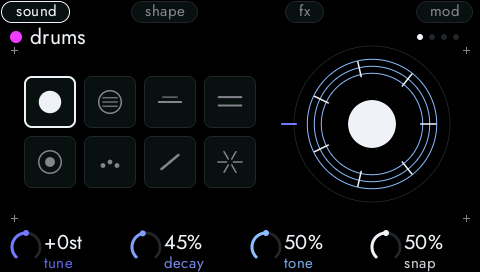
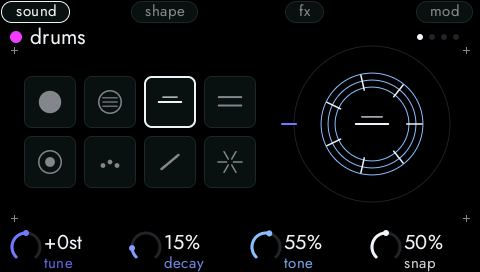
The unit starts empty (the eight instruments, nothing in the steps) and a piece is loaded from FILE; manual recipe 1 and the twin follow

diff --git a/guide/manual.tpl.html b/guide/manual.tpl.html
@@ -131,7 +131,7 @@ h2.ref small{font-size:14px;color:var(--dim)}
 
 <h4>Starting it</h4>
 <p>On a Mac, plug the MK3 in <i>directly</i> (a hub can starve its screens of power), close Native Instruments' own software, and run <code>scripts/run.sh</code> (or just <code>op8</code>, if you set that alias up). On the Raspberry Pi 5 it starts by itself when the unit is powered. The sound comes out of the MK3's own audio outputs.</p>
-<p>OP-8 starts with a small demo already in it: a drum beat, a kick, a bass, a plucked line, a MIDI arpeggio and a synth line. It is there so there is always something to listen to and take apart.</p>
+<p>OP-8 starts <b>empty</b>: the eight instruments are on their tracks (drums, kick, bass, strings and bells, sampler, granular, synth and the MIDI out) and there is nothing in the steps. To hear something, load one of the eight pieces that come with it (next section); to make something, start with recipe 2.</p>
 
 <h2 id="pieces">Eight pieces to listen to</h2>
 <p class="sub">Before you build anything, hear what it can do. Press <kbd>FILE</kbd>, tap one of the top two rows of pads, and press <kbd>PLAY</kbd>. Each is short and in a different style; turn knobs, mute tracks and take it apart.</p>
@@ -144,12 +144,12 @@ __PIECE_ROWS__
 <h2 id="first">Your first ten minutes</h2>
 <p class="sub">No rules, only things to press.</p>
 <ol class="steps">
-  <li><div>Press <kbd>PLAY</kbd>. The demo plays, and the pad lights run along the steps. Press <kbd>PLAY</kbd> again to pause, and <kbd>STOP</kbd> to stop. <kbd>RESTART</kbd> goes back to step 1 and keeps playing.</div></li>
+  <li><div>Press <kbd>FILE</kbd>, tap a pad of the top row (for example <b>house</b>, the first) and press <kbd>PLAY</kbd>. The piece plays, and the pad lights run along the steps. Press <kbd>PLAY</kbd> again to pause, and <kbd>STOP</kbd> to stop. <kbd>RESTART</kbd> goes back to step 1 and keeps playing.</div></li>
   <li><div>Press the group buttons <kbd>A</kbd> to <kbd>H</kbd> one after another. Each track has its own colour and its own instrument, in the order of <kbd>PLUG-IN</kbd>: drums, kick, bass, strings and bells, sampler, granular (recipe 20), synth, and last the MIDI out. The right screen changes with it.</div></li>
   <li><div>Hold <kbd>MUTE</kbd> and press a group button: that track goes quiet. Do it again to bring it back. Mute everything except the bass and the kick and you have the skeleton of the piece.</div></li>
-  <li><div>Turn knobs 5–8 while the demo plays. The right screen names what each one does, and the picture changes with the sound. This is the main way to shape a sound.</div></li>
+  <li><div>Turn knobs 5–8 while the piece plays. The right screen names what each one does, and the picture changes with the sound. This is the main way to shape a sound.</div></li>
   <li><div>Hold <kbd>TEMPO</kbd> and turn the 4D encoder (the big knob in the corner): the tempo changes, and the left screen shows it in large numbers while you hold the button.</div></li>
-  <li><div>Press <kbd>FILE</kbd>. The sixteen pads are sixteen places for projects: the top two rows are eight that come with OP-8, the bottom two rows are yours. Tap one of the top row to load it. Press <kbd>FILE</kbd> again to leave. Whatever you do, you can always come back to the demo this way.</div></li>
+  <li><div>Press <kbd>FILE</kbd>. The sixteen pads are sixteen places for projects: the top two rows are eight that come with OP-8, the bottom two rows are yours. Tap one of the top row to load it. Press <kbd>FILE</kbd> again to leave. Whatever you do, you can always come back to a piece this way, and an empty place of yours opens a new empty project.</div></li>
 </ol>
 <div class="callout warn"><p><b>There is no undo yet.</b> If you are about to try something bold, save first: <kbd>FILE</kbd>, then <kbd>SHIFT</kbd> and a pad of the bottom two rows (recipe 12).</p></div>
 
@@ -161,9 +161,9 @@ __PIECE_ROWS__
   <h3>1 <span>LISTEN AND TAKE IT APART</span></h3>
   <p class="goal">Hear what the machine does and learn to mute and choose tracks.</p>
   <ol class="steps">
-    <li><div>Press <kbd>PLAY</kbd>.</div></li>
+    <li><div>Press <kbd>FILE</kbd>, tap <b>pad 1</b> of the top row (<b>house</b>): it loads and takes you back to composing. Press <kbd>PLAY</kbd>.</div></li>
     <li><div>Hold <kbd>MUTE</kbd> and press group <kbd>B</kbd>. The kick drops out (its group light goes dark).</div></li>
-    <li><div>Press group <kbd>D</kbd> (no <kbd>MUTE</kbd>). The right screen now shows the <b>resonator</b>, the instrument that plays the plucked line. Turn knob 7 and listen.</div></li>
+    <li><div>Press group <kbd>D</kbd> (no <kbd>MUTE</kbd>). The right screen now shows the <b>resonator</b>, the instrument that plays the chord stabs. Turn knob 7 and listen.</div></li>
     <li><div>Press <kbd>STOP</kbd>.</div></li>
   </ol>
   <figure><div class="pair"><img src="img/r01-playing-left.png" alt="The left screen while playing."><img src="img/r01-playing-right.png" alt="The right screen while playing."></div><figcaption>While it plays, the white pad is the playhead and the rings on the left show where each track is in its own loop.</figcaption></figure>
@@ -492,7 +492,7 @@ __PIECE_ROWS__
   <h3>21 <span>SLICES: A KIT MADE OF A SOUND</span></h3>
   <p class="goal">Cut a sound into equal parts and play each one from a pad or a step.</p>
   <ol class="steps">
-    <li><div>Press group <kbd>E</kbd> (the sampler) and choose a sound with a beat in it: record a bar of the demo with <kbd>SAMPLING</kbd> (recipe 16) and save it, or use the <b>glitch</b>, which has four hits.</div></li>
+    <li><div>Press group <kbd>E</kbd> (the sampler) and choose a sound with a beat in it: record a bar of one of the pieces with <kbd>SAMPLING</kbd> (recipe 16) and save it, or use the <b>glitch</b>, which has four hits.</div></li>
     <li><div>Press <kbd>6</kbd> (<kbd>shape</kbd>) and turn <b>knob 7, loop</b>, to <b>slices 8</b> (the third of the five names of the knob: <b>one shot</b>, <b>loop</b>, <b>slices 8</b>, <b>slices 16</b>, <b>hits</b>). The wave now has seven ticks across it: the part between <b>start</b> and <b>length</b>, cut into eight equal parts.</div></li>
     <li><div>Press <kbd>KEYBOARD</kbd> and tap the pads. The bottom-left pad (C3) is the first slice, the next pad the second, and so on; with eight slices the pads above the eighth go round to the first again. With <b>slices 16</b> every pad is its own slice.</div></li>
     <li><div>A slice always plays at its own pitch, whatever the pad (<b>tune</b> moves them all together), and it plays through and fades over <b>release</b>.</div></li>
@@ -503,7 +503,7 @@ __PIECE_ROWS__
     <li><div><b>Cut where the sound hits.</b> Turn <b>knob 7, loop</b>, on to <b>hits</b>. Instead of equal parts, OP-8 looks for the places where the sound <i>hits</i> (a drum, a note that starts) and cuts there: a tick appears at each hit and a slice runs from one hit to the next. The first pad (C3) is the first hit, the next pad the next one, and the pads go round after the last. It finds up to sixteen, at least 60 ms apart, and what comes before the first hit is not a slice. A sound with no hits (a held tone, a pad) is one slice. <b>Start</b> and <b>length</b> still choose the part that is cut.</div></li>
   </ol>
   <figure><div class="pair one"><img src="img/r21-hits-right.png" alt="The sampler on hits: ticks where the sound hits."></div><figcaption>A phrase of four drum hits on <b>hits</b>: a tick at each one.</figcaption></figure>
-  <p class="next"><b>Try next:</b> record a drum loop from the demo, slice it in 16, and play the slices from the steps of another track in a new order.</p>
+  <p class="next"><b>Try next:</b> record a drum loop from one of the pieces, slice it in 16, and play the slices from the steps of another track in a new order.</p>
 </div>
 
 <div class="recipe" id="r22">
@@ -543,7 +543,7 @@ __PIECE_ROWS__
   <figure><div class="pair"><img src="img/r23-send-left.png" alt="The mixer with the delay send lit."><img src="img/r23-send-right.png" alt="The page of the sends: the delay and the reverb."></div><figcaption>Left: the faders show what each channel sends to the delay. Right: the delay and the reverb.</figcaption></figure>
   <figure><div class="pair"><img src="img/r23-side-chain-right.png" alt="The output page with the side-chain on a track."><img src="img/r23-taps-right.png" alt="The taps page: the delay taken before the fader."></div><figcaption>Left: <b>output</b>, with the compressor listening to track A. Right: <b>taps</b>, with the delay taken before the fader and the reverb after it.</figcaption></figure>
   <figure><div class="pair one"><img src="img/r23-eq-right.png" alt="The EQ page of the mixer."></div><figcaption>The EQ: a little bass lifted, a dip in the middle and the treble lifted; the dots are where the bands are set.</figcaption></figure>
-  <p class="next"><b>Try next:</b> play the demo, put the threshold at about −20 dB with a ratio of 4:1 and a slow attack, add a little make-up, and press <kbd>MIXER</kbd> to compare; then put the mix at half.</p>
+  <p class="next"><b>Try next:</b> play one of the pieces, put the threshold at about −20 dB with a ratio of 4:1 and a slow attack, add a little make-up, and press <kbd>MIXER</kbd> to compare; then put the mix at half.</p>
 </div>
 
 

diff --git a/twin/op8-twin.html b/twin/op8-twin.html
@@ -2904,6 +2904,8 @@ function frame() {
   drawLeft(lcdL); drawRight(lcdR); if (UI.main === "instrument") { navRing(lcdL, 0); navRing(lcdR, 1); } updateLeds();
   requestAnimationFrame(frame);
 }
+// the unit starts empty (demo::start_rig): the eight instruments as they come and nothing in the steps; a piece is loaded from FILE
+loadProject(blankProject()); applyPiece(0); PARAMS.forEach((q, t) => { if (q && SLOTS[t] !== "drums") { const d = CARTS[SLOTS[t]].params.map(z => z[1]); q.splice(0, q.length, ...d); } });
 requestAnimationFrame(frame);
 document.querySelectorAll("[data-look]").forEach(b => b.addEventListener("click", () => { LOOK[b.dataset.look] = b.dataset.v; applyLook(); }));
 applyLook();

diff --git a/crates/op8/tests/manual.rs b/crates/op8/tests/manual.rs
@@ -31,14 +31,18 @@ fn with_shift(b: &mut Bench, button: Button) {
 
 // F-G04
 #[test]
-fn recipe_01_hear_the_demo() {
+fn recipe_01_hear_a_piece() {
     let _one_at_a_time = serial();
-    let mut b = Bench::demo();
+    let mut b = Bench::empty();
     b.run_ms(100);
     b.capture("r01-start");
+    b.press(Button::File);
+    b.tap(pad(1)); // house
+    b.run_ms(100);
+    assert_eq!(b.ui().main, op8_ui::Main::Instrument, "loading goes back to composing");
     b.press(Button::Play);
     b.run_ms(2500);
-    assert!(b.rms_db(1500, 2500) > -40.0, "the demo sounds");
+    assert!(b.rms_db(1500, 2500) > -40.0, "the piece sounds");
     b.capture("r01-playing");
     // hold MUTE and tap group B: the kick goes quiet
     b.button_down(Button::Mute);

diff --git a/crates/op8/tests/plugin.rs b/crates/op8/tests/plugin.rs
@@ -137,8 +137,11 @@ fn f_i07_the_standard_tracks_hold_the_eight_instruments_in_order() {
             assert_eq!(b.instrument(t).as_deref(), Some(*name), "{what}: track {t}");
         }
     };
-    check(&Bench::demo(), "the unit as it starts");
+    check(&Bench::demo(), "the demo rig");
     check(&Bench::empty(), "the empty rig");
+    let start = Bench::new(op8::demo::start_rig());
+    check(&start, "the unit as it starts");
+    assert!(start.project().tracks.iter().all(|t| t.is_empty()), "and it starts with nothing in the steps");
     let mut b = Bench::demo();
     for slot in 0..8 {
         b.press(Button::File);

diff --git a/crates/op8/src/main.rs b/crates/op8/src/main.rs
@@ -125,7 +125,7 @@ fn audio_prefs(s: &op8::settings::Settings) -> op8::audio::Prefs {
 #[cfg(feature = "mk3")]
 fn run(mut script: Option<Script>, theme_given: bool) -> Result<()> {
     use std::sync::{atomic::AtomicBool, Arc};
-    let (engine, mut handle, midi_rx) = demo::rig();
+    let (engine, mut handle, midi_rx) = demo::start_rig();
     let midi_sync = handle.take_midi_sync();
     let stop = Arc::new(AtomicBool::new(false));
     // What the player chose in SETTINGS (the devices, the block, the light): read before anything is opened.

diff --git a/crates/op8/src/demo.rs b/crates/op8/src/demo.rs
@@ -104,6 +104,11 @@ pub fn rig() -> (Engine, EngineHandle, rtrb::Consumer<MidiMessage>) {
     (e, h, midi)
 }
 
+/// What the unit starts with (`op8 run`): the eight standard instruments and nothing in the steps. A piece is loaded from FILE.
+pub fn start_rig() -> (Engine, EngineHandle, rtrb::Consumer<MidiMessage>) {
+    empty_rig()
+}
+
 /// Same slots, empty pattern.
 pub fn empty_rig() -> (Engine, EngineHandle, rtrb::Consumer<MidiMessage>) {
     let (slots, midi) = slots();

diff --git a/docs/features.md b/docs/features.md
@@ -213,7 +213,7 @@ The buttons and their implementation status are in [buttons.md](buttons.md). Thi
 | F-K27 | ARRANGER opens both screens and is lit (again goes back); the sixteen pads are the sixteen steps of the song (the one that plays the brightest, one that exists lit more than a free one); a tap chooses a step, knob 5 puts a scene in a free step and then turns it, knob 6 sets its bars, knob 7 follows the song or not, ERASE + a tap takes a step out; the 4D reaches the sixteen cells; a tap in a view other than composing does not open the step inspector; a song that is followed plays the scenes from `PLAY`; saved with the project (format version 10) | `ui().main`, `ui().arr`, the project's `song`, `status().song_step`, `status().pattern`, the pad LEDs, the screens | ✓ |
 | F-A21 | The granular makes a cloud only while a note is held and fades after: nothing without a note; `position` chooses where in the sound the grains are cut; `density` is regular on one side of the middle, random on the other and only the note's own grain in the middle, with more grains the further from the middle; `size` is how long that grain lasts; held notes and `tune` set the pitch (an octave is twice the crossings); `spread` scatters between the speakers (none: both the same); the same notes make the same cloud, and six notes at the busiest stay finite and bounded; a sound put in a place while it plays is the one heard; an empty place is silent; the drawing shows the grains | unit tests in `granular.rs` on the audio of a tone | ✓ |
 | F-I06 | The granular can be chosen in PLUG-IN, plays a cloud from a step, has two pages (`sample, position, size, density` and `tune, texture, spread, level`), has eight presets in BROWSER, and what SAMPLING saves is heard in a granular that is already playing | `instrument(track)`, the track's audio and note count, `ui().has_second`, `ui().browse` | ✓ |
-| F-I07 | The standard tracks hold the eight instruments in the order of PLUG-IN, drums first and the MIDI out last (A drums, B KickSyn, C FmBass, D resonator, E sampler, F granular, G macro, H MIDI out): the unit starts so, and so does every project that comes with it and a new empty one | `instrument(track)` on the unit, on each factory project and on a new empty project | ✓ |
+| F-I07 | The standard tracks hold the eight instruments in the order of PLUG-IN, drums first and the MIDI out last (A drums, B KickSyn, C FmBass, D resonator, E sampler, F granular, G macro, H MIDI out): the unit starts so and with nothing in the steps (a piece is loaded from FILE), and so does every project that comes with it and a new empty one | `instrument(track)` on the unit, on each factory project and on a new empty project | ✓ |
 | F-A22 | The sampler's `loop` knob has four positions: one shot, loop, slices 8 and slices 16; with slices the window is cut in equal parts and a note plays one at its own pitch (C3 the first, going round after the last, the length of what sounds is a slice); `tune` goes ± 24 semitones; a state saved before (tune ± 12, loop off or on) still sounds the same and is saved as the new version; the picture shows a tick between the slices | unit tests in `sampler.rs` on the audio; `ui` on the bench | ✓ |
 | F-A23 | SHIFT + REC in SAMPLING arms the recording: it waits for a sound louder than −36 dB, keeps nothing while it waits, starts ten milliseconds before the sound, REC (or leaving SAMPLING) disarms it, the pads and the source knob wait, and the screen says it is waiting | `status.armed`, `ui().smp`, the take, pixel hashes | ✓ |
 | F-A24 | WAV files copied into the samples folder while OP-8 runs are put in the instruments that play when SAMPLING or PLUG-IN opens: only the new or changed ones, with a line that says how many, a place whose file is gone becomes empty, nothing is loaded when nothing changed, and what SAMPLING saved is not loaded again | `ui().smp.note`, `ui().plug_note`, the audio | ✓ |

diff --git a/docs/roadmap.md b/docs/roadmap.md
@@ -154,6 +154,8 @@ Saved on 2026-11-16, after the batch of section 8, and kept current since. Devel
 
 19. Done (2026-11-17): ARRANGER: a song of up to sixteen steps, each a scene for 1 to 16 bars; when it is followed (knob 7) the sequencer plays the steps one after another and goes back to the first at the end; saved with the project (format version 10) (F-S17, F-K27). Also fixed: a pad tap in a view other than composing could open the step inspector when the mode was STEP (the hold was counted from time zero). Not tried on the unit. Left: the mutes that a scene sets while the song plays are not drawn on the screens and a step cannot be inserted between others (a step is put at its place and the later ones are kept).
 
+21. Done (2026-11-17): the unit starts empty (`demo::start_rig`: the eight standard instruments and nothing in the steps) and a piece is loaded from FILE; the manual and the twin follow (F-I07). The simulator (`op8 sim`) and the bench still use the demo project.
+
 **To try on the unit, all together**
 
 - The audio input and SAMPLING; BROWSER and the factory presets; the eight pieces; the focus of the 4D everywhere (PERFORM included, and the 4 % step of its intensity turn); ink over colour and the rings at the edges (F-D19, F-N13); the sounds of a kit chosen with the 4D (F-N14); the themes.
